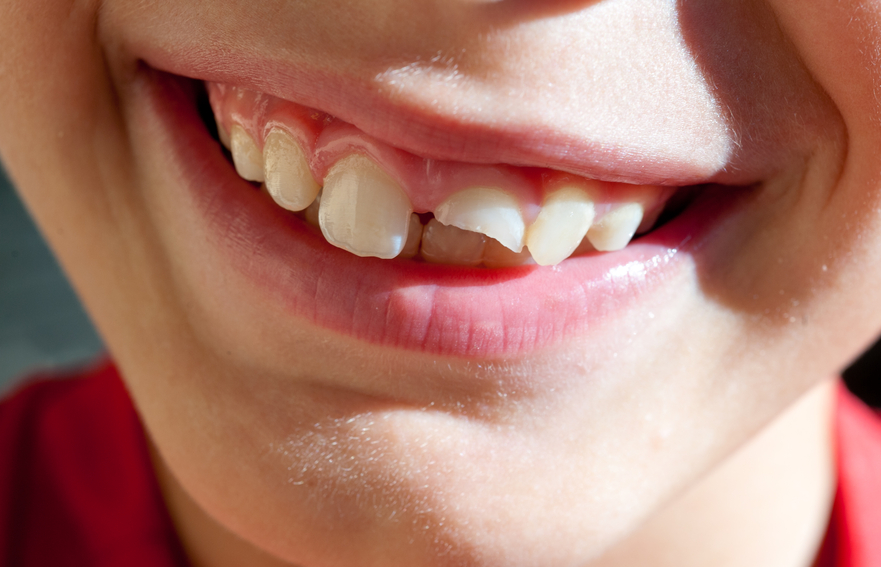
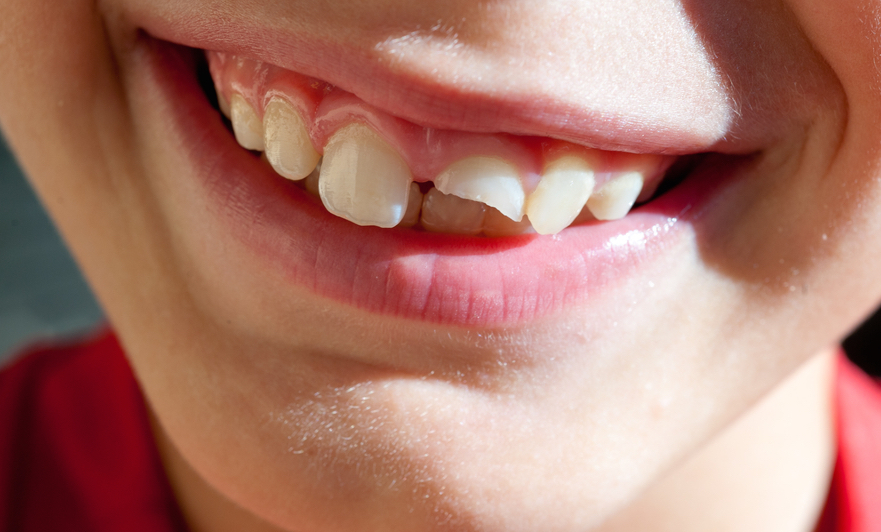
Added additional jquery code. Additional html and css updates.

diff --git a/myWebpage.html b/myWebpage.html
@@ -23,7 +23,8 @@
     <!--get img of guy w/broken tooth for next paragraph-->
     <table>
       <tr>
-        <td class="img"><img src="images/broken-tooth.jpg" alt="Tooth broken in half" height="55%" width=""</td>
+        <!--have white space underneath picture **fix-->
+        <td class="img"><img src="images/broken-tooth.jpg" alt="Tooth broken in half" height="60%" width=""</td>
         <td class="tooth">This actually happened to me via street hockey accident!</td>
       </tr>
     </table>

diff --git a/script.js b/script.js
@@ -1,9 +1,16 @@
-$(document)ready(function({
+$(document)ready(function(){
 
   var $button = $(".button")
   $button.click
+});
 
-  $(".Ottawa")mouseenter(function({
-    
-  }))
-})
+$(document)ready(function(){
+  var $Ottawa = $(".Ottawa")
+  $Ottawa.hover(function() {
+    $Ottawa.fadeTo("#ff1c00")
+  });
+  var $Canada = $(".Canada")
+  $Canada.mouseenter(function(){
+    $Canada.fadeTo("#ffffff").
+  });
+});

diff --git a/stylesheet.css b/stylesheet.css
@@ -26,6 +26,6 @@ td.tooth {
   text-align: center;
 }
 .img {
-  margin-left: 5px;
-  box-shadow: 1px 2px 4px #463db1;
+  margin-bottom: 2px;
+  box-shadow: 1px -2px 3px #505ad6;
 }
